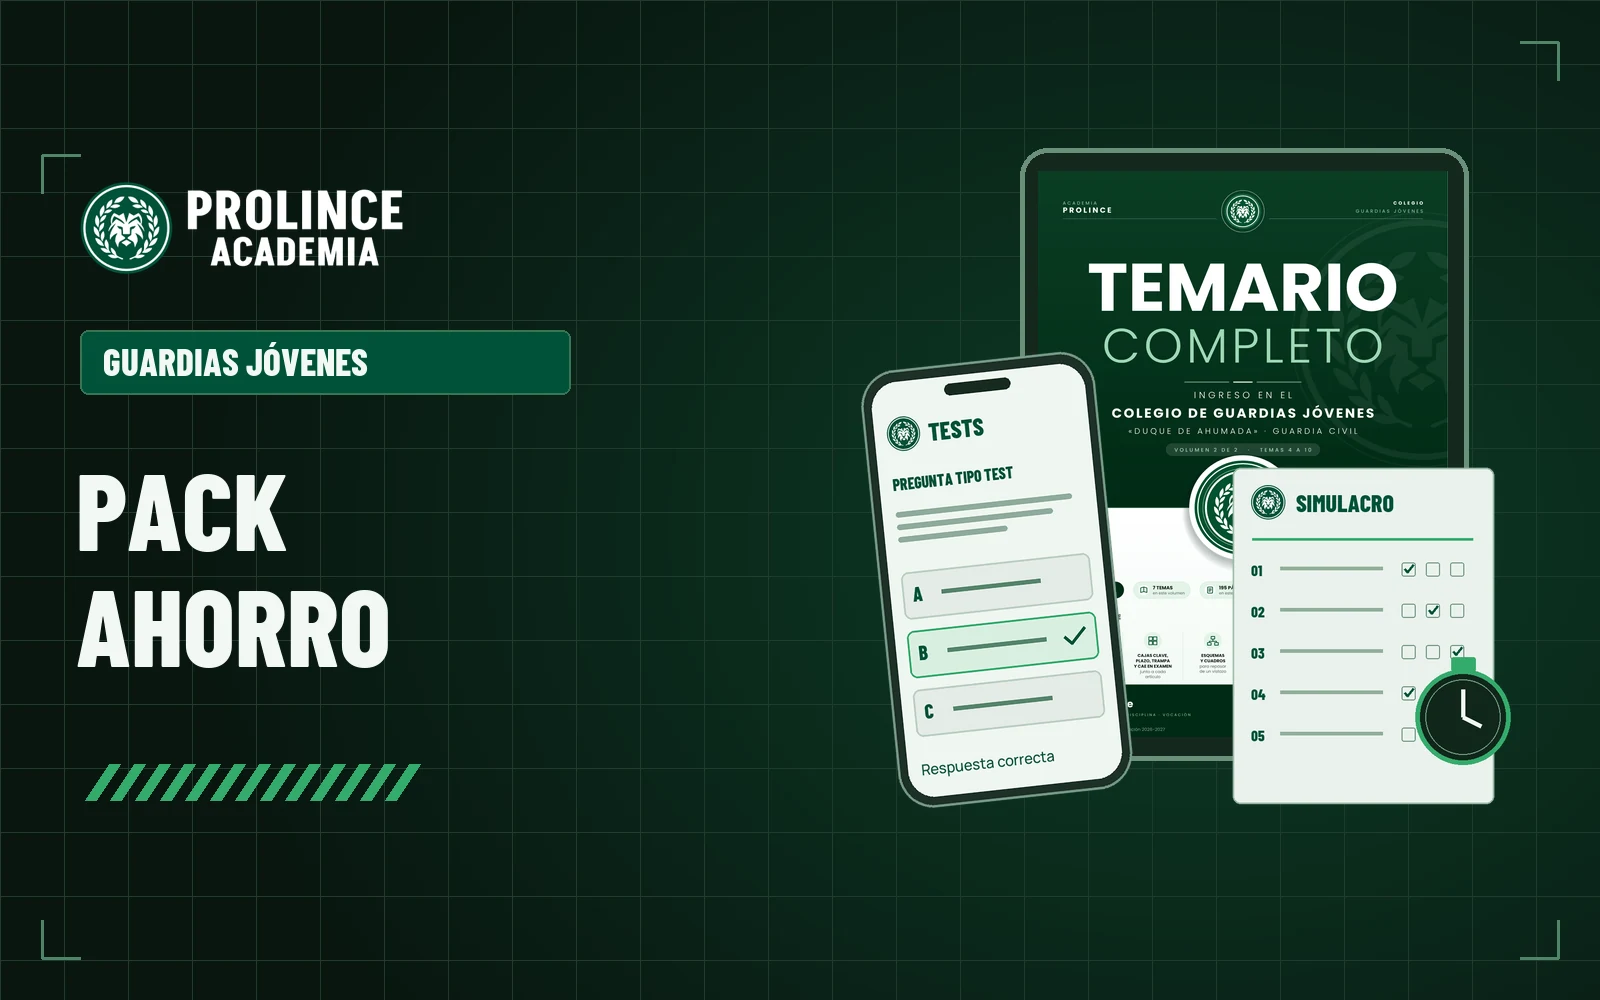
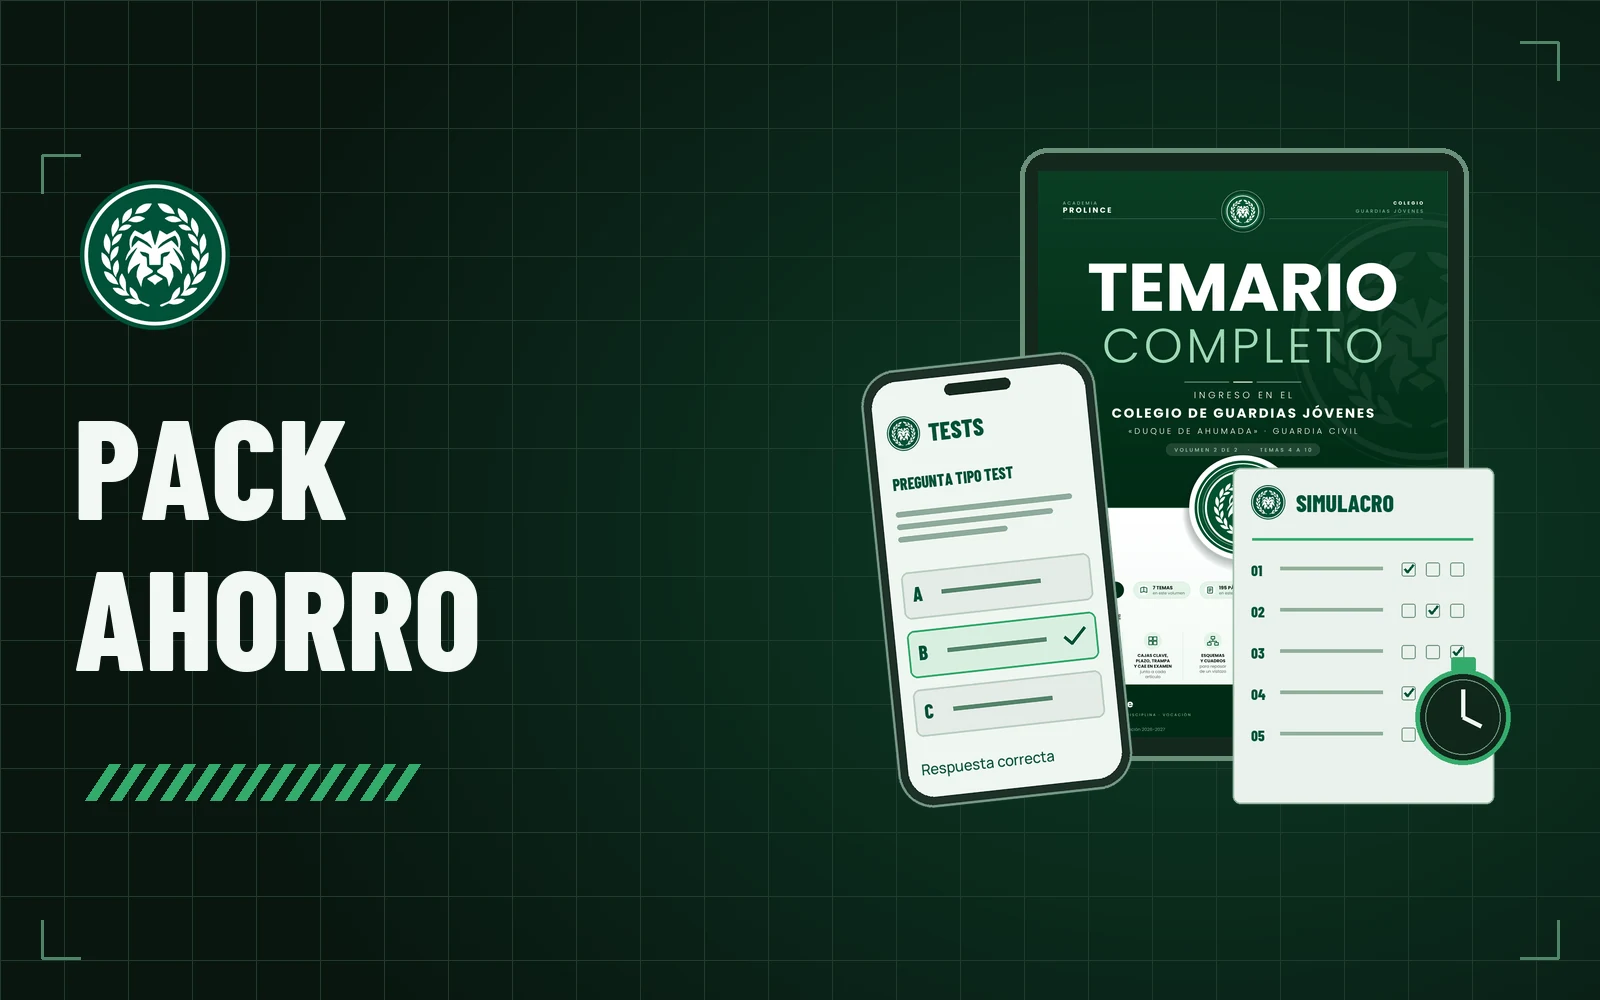
Imágenes de los packs: solo el sello y el título un 30 % más grande
Fuera la etiqueta del curso y el texto «Prolince Academia»; el nombre del pack destaca más.
El generador admite --solo-packs para no rehacer las miniaturas de los temarios.

Changed region(s): [[0.0312, 0.186, 0.375, 0.682]]

diff --git a/scripts/generar-miniaturas.py b/scripts/generar-miniaturas.py
@@ -1,6 +1,6 @@
 """Genera las miniaturas de packs y prepara los temarios desde sus fuentes fotográficas.
 
-Uso: python3 scripts/generar-miniaturas.py
+Uso: python3 scripts/generar-miniaturas.py [--solo-packs]
 Requiere Pillow; descarga Barlow Condensed 800 y Manrope 500 de Google Fonts en la
 carpeta temporal. Los temarios se preparan con generar-temarios-realistas.py;
 sus fuentes de imagen se conservan en scripts/recursos/temarios.
@@ -10,6 +10,7 @@ from tempfile import gettempdir
 from urllib.request import urlretrieve
 import math
 import subprocess
+import sys
 from PIL import Image, ImageDraw, ImageFont, ImageFilter
 
 ROOT = Path(__file__).resolve().parents[1]
@@ -22,9 +23,8 @@ for family, url in FONTS.items():
     target = TMP / f'prolince-{family}.ttf'
     if not target.exists():
         urlretrieve(url, target)
-subprocess.run(['node', '-e', "const s=require('sharp');Promise.all([s('public/brand/prolince-logo.svg').resize(400).png().toFile(process.argv[1]),s('public/brand/prolince-logo-horizontal-negativo.svg').resize({width:460}).png().toFile(process.argv[2])])", str(TMP / 'prolince-sello.png'), str(TMP / 'prolince-marca.png')], cwd=ROOT, check=True)
+subprocess.run(['node', '-e', "require('sharp')('public/brand/prolince-logo.svg').resize(400).png().toFile(process.argv[1])", str(TMP / 'prolince-sello.png')], cwd=ROOT, check=True)
 SEAL = Image.open(TMP / 'prolince-sello.png').convert('RGBA')
-LOGO = Image.open(TMP / 'prolince-marca.png').convert('RGBA')
 GREEN = '#35AB6C'
 WHITE = '#F2F8F4'
 MUTED = '#A2C5B1'
@@ -102,12 +102,11 @@ def pack(course, kind):
     # Esquinas de visor decorativas; franja superior izquierda libre para etiquetas HTML.
     for x,y,sx,sy in [(42,155,1,1),(1558,42,-1,1),(42,958,1,-1),(1558,958,-1,-1)]:
         d.line([(x+sx*38,y),(x,y),(x,y+sy*38)],fill='#508568',width=3)
-    paste(im,LOGO,(80,180),(335,round(LOGO.height*335/LOGO.width)))
-    label='GUARDIA CIVIL' if course=='gc' else 'GUARDIAS JÓVENES'
-    d.rounded_rectangle((80,330,570 if course=='cgj' else 470,394),radius=8,fill='#005238',outline='#397552',width=2)
-    text(im,(103,339),label,37)
+    # Solo el sello: el curso y el nombre de la academia ya los dice la tarjeta, y así el título
+    # —lo que distingue un pack de otro— tiene sitio para destacar.
+    paste(im,SEAL,(80,180),(150,150))
     titles={'tests':['SUSCRIPCIÓN','DE TESTS'],'simulacros':['PACK ESPECIAL','SIMULACROS'],'ahorro':['PACK','AHORRO']}[kind]
-    for i,title in enumerate(titles): text(im,(76,443+i*116),title,108)
+    for i,title in enumerate(titles): text(im,(74,380+i*151),title,140)
     # Barra de rayas diagonales de marca.
     for x in range(85,399,25): d.polygon([(x,800),(x+11,800),(x+35,764),(x+24,764)],fill=GREEN)
     if kind=='tests':
@@ -134,7 +133,8 @@ for course in ('gc','cgj'):
         path=ROOT/f'public/packs/{course}-{suffix}.webp'
         path.parent.mkdir(parents=True,exist_ok=True)
         pack(course,kind).save(path,'WEBP',quality=88,method=6)
-subprocess.run(['python3', str(ROOT / 'scripts/generar-temarios-realistas.py')], check=True)
+if '--solo-packs' not in sys.argv:
+    subprocess.run(['python3', str(ROOT / 'scripts/generar-temarios-realistas.py')], check=True)
 for folder in ('packs','temarios/miniaturas'):
     for path in sorted((ROOT/'public'/folder).glob('*.webp')):
         print(f'{path.relative_to(ROOT)}: {path.stat().st_size / 1000:.1f} KB · {Image.open(path).size}')
